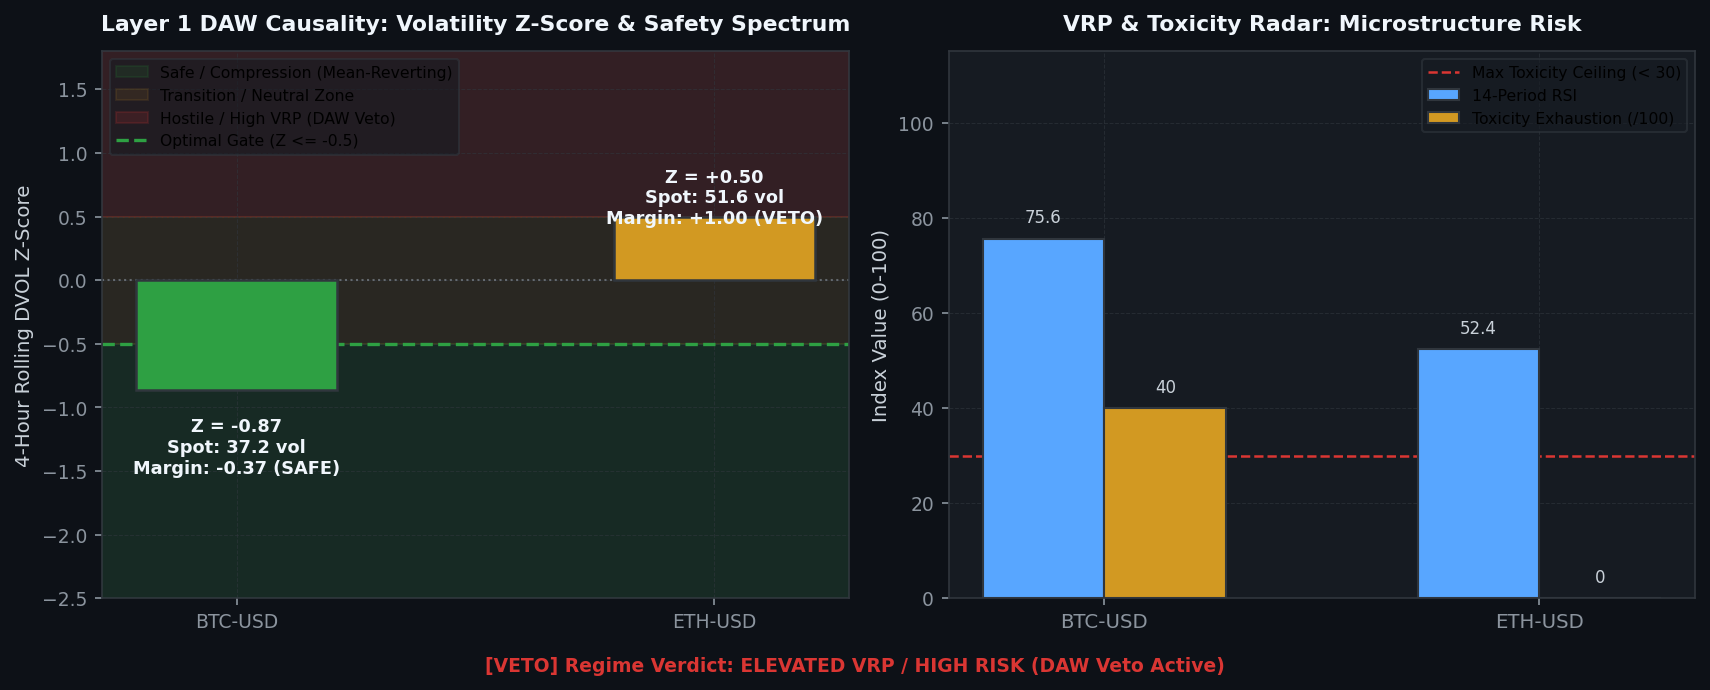
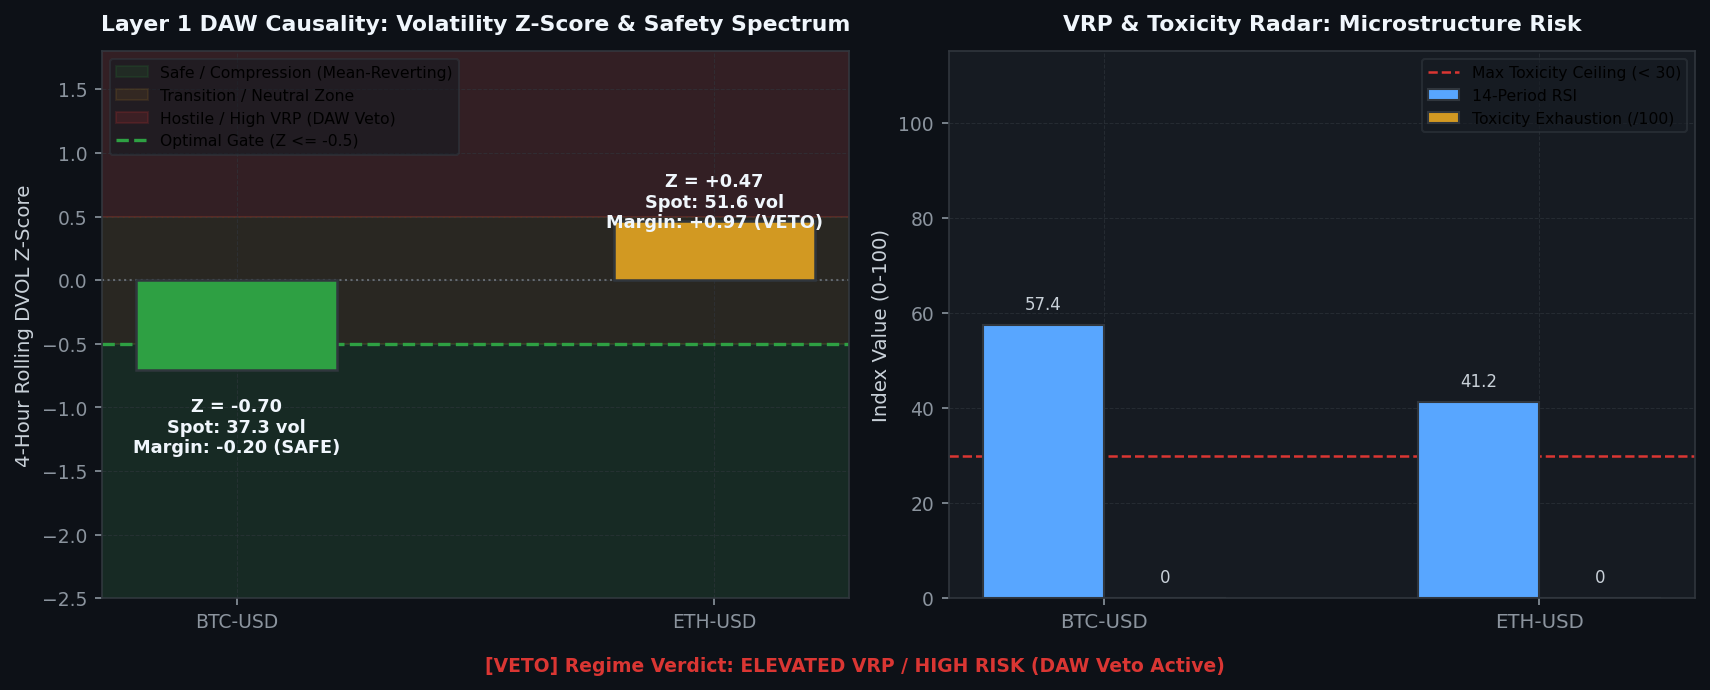
[coinbase] Hourly Status & Visual Intelligence Update: 2026-09-02 04:37:32

diff --git a/coinbase/data/hourly_status_report.md b/coinbase/data/hourly_status_report.md
@@ -3,7 +3,7 @@ layout: default
 ---
 
 # 🛡 Unified Trading System Hourly Status & Visual Intelligence
-> **Report Generated**: `2026-09-02 04:18:18 AM PDT (2026-09-02 11:18:18 UTC)`  
+> **Report Generated**: `2026-09-02 04:37:13 AM PDT (2026-09-02 11:37:13 UTC)`  
 > **System Health**: **🟡 DEGRADED / RESTRICTED** | **Win Rate**: `0.0%` | **Completed Trades**: `0`
 
 
@@ -15,13 +15,13 @@ Real-time Deribit implied volatility (DVOL) proxy tracking against mathematicall
 
 | Symbol | Proxy Oracle | Live Z-Score | Optimal Limit (YSP) | Safety Margin | Live VRP | Optimal VRP (YSP) | DAW Safety Verdict |
 | :--- | :--- | :--- | :--- | :--- | :--- | :--- | :--- |
-| `AVAX-USD` | DVOL_BTC | **-0.91** | **-0.50** | **-0.41** | **+8.66** | -1.0 | 🔴 DAW VETOED |
-| `ETH-USD` | DVOL_ETH | **+0.50** | **-0.50** | **+1.00** | **+23.05** | -1.0 | 🔴 DAW VETOED |
-| `ADA-USD` | DVOL_BTC | **-0.91** | **-0.50** | **-0.41** | **+8.58** | -1.0 | 🔴 DAW VETOED |
-| `DOGE-USD` | DVOL_BTC | **-0.91** | **-0.50** | **-0.41** | **+8.66** | -1.0 | 🔴 DAW VETOED |
-| `BTC-USD` | DVOL_BTC | **-0.91** | **-0.50** | **-0.41** | **+8.65** | -1.0 | 🔴 DAW VETOED |
-| `LINK-USD` | DVOL_BTC | **-0.91** | **-0.50** | **-0.41** | **+8.53** | -1.0 | 🔴 DAW VETOED |
-| `SOL-USD` | DVOL_BTC | **-0.91** | **-0.50** | **-0.41** | **+8.65** | -1.0 | 🔴 DAW VETOED |
+| `AVAX-USD` | DVOL_BTC | **-0.72** | **-0.50** | **-0.22** | **+8.72** | -1.0 | 🔴 DAW VETOED |
+| `ETH-USD` | DVOL_ETH | **+0.47** | **-0.50** | **+0.97** | **+23.03** | -1.0 | 🔴 DAW VETOED |
+| `ADA-USD` | DVOL_BTC | **-0.72** | **-0.50** | **-0.22** | **+8.73** | -1.0 | 🔴 DAW VETOED |
+| `DOGE-USD` | DVOL_BTC | **-0.72** | **-0.50** | **-0.22** | **+8.73** | -1.0 | 🔴 DAW VETOED |
+| `BTC-USD` | DVOL_BTC | **-0.72** | **-0.50** | **-0.22** | **+8.71** | -1.0 | 🔴 DAW VETOED |
+| `LINK-USD` | DVOL_BTC | **-0.72** | **-0.50** | **-0.22** | **+8.73** | -1.0 | 🔴 DAW VETOED |
+| `SOL-USD` | DVOL_BTC | **-0.72** | **-0.50** | **-0.22** | **+8.71** | -1.0 | 🔴 DAW VETOED |
 
 
 
@@ -37,16 +37,16 @@ We hereby certify that the mission-critical algorithmic data assets uploaded by 
 
 | Status | Data Asset | Freshness / State | Details / Timestamp |
 | :---: | :--- | :--- | :--- |
-| ✅ | **Go-List JSON** | Fresh (39.58h old) | 08-31 12:43 |
-| ✅ | **TimesFM Forecasts** | Fresh (4.27h old) | 09-02 00:01 |
-| ✅ | **Holding Times config** | Fresh (39.58h old) | 08-31 12:43 |
-| ✅ | **BTC DVOL Cache** | Fresh (0.00h old) | 09-02 04:18 |
-| ✅ | **ETH DVOL Cache** | Fresh (0.00h old) | 09-02 04:18 |
-| ✅ | **Live Trading Telemetry** | Fresh (0.00h old) | 09-02 04:18 |
+| ✅ | **Go-List JSON** | Fresh (39.89h old) | 08-31 12:43 |
+| ✅ | **TimesFM Forecasts** | Fresh (4.59h old) | 09-02 00:01 |
+| ✅ | **Holding Times config** | Fresh (39.90h old) | 08-31 12:43 |
+| ✅ | **BTC DVOL Cache** | Fresh (0.00h old) | 09-02 04:37 |
+| ✅ | **ETH DVOL Cache** | Fresh (0.00h old) | 09-02 04:37 |
+| ✅ | **Live Trading Telemetry** | Fresh (0.00h old) | 09-02 04:37 |
 
 <br>
 
-> **Utilization Certification**: ✅ **CERTIFIED.** The Guardian Watchdog is ONLINE and EC2 traders are actively querying the freshest MLOps data artifacts (Found 1770 recent read events).
+> **Utilization Certification**: ✅ **CERTIFIED.** The Guardian Watchdog is ONLINE and EC2 traders are actively querying the freshest MLOps data artifacts (Found 1861 recent read events).
 
 
 ---
@@ -55,7 +55,7 @@ Layer-by-layer tick evaluation waterfall and asset-specific performance tracking
 
 | Funnel Filter Layer | Total Rejections | % of Rejections |
 | :--- | :--- | :--- |
-| Tier 1: Macro Volatility Tensor Gate (Omega_macro) | `75,712` | **100.0%** |
+| Tier 1: Macro Volatility Tensor Gate (Omega_macro) | `76,008` | **100.0%** |
 | Tier 2: Unified Transport & Directional Engine | `0` | **0.0%** |
 | Tier 3: Continuous Hawkes-SFGK Pricer (HAS-Pricer) | `0` | **0.0%** |
 | System: Asset Cooldown Active | `0` | **0.0%** |
@@ -72,7 +72,7 @@ Layer-by-layer tick evaluation waterfall and asset-specific performance tracking
 | `ADA-USD` | 5 | 60.0% | 0 | 🟢 OK |
 | `DOGE-USD` | 79 | 68.4% | 0 | 🟢 OK |
 | `ETH-USD` | 35 | 57.1% | 1 | 🟢 OK |
-| `LINK-USD` | 83 | 68.7% | 0 | 🟢 OK |
+| `LINK-USD` | 84 | 69.0% | 0 | 🟢 OK |
 | `AVAX-USD` | 70 | 68.6% | 1 | 🟢 OK |
 | `SOL-USD` | 27 | 77.8% | 1 | 🟢 OK |
 
@@ -82,16 +82,16 @@ Operational telemetry of the high-velocity stablecoin market-making and VIP fee 
 
 | Metric | Live State | Details / Configuration |
 | :--- | :--- | :--- |
-| **Daemon Engine** | 🟢 RUNNING | PID `639421` on Live EC2 (CPU: `0.8%`, RAM: `0.2%`) |
+| **Daemon Engine** | 🟢 RUNNING | PID `639421` on Live EC2 (CPU: `0.9%`, RAM: `0.2%`) |
 | **Target Peg Pair** | `USDT-USD` | Dynamic Top-of-Book Post-Only Maker liquidity |
 | **Tranche Order Sizing** | `$5,000.00 USD` | Multi-block continuous capital rotation |
 | **HFT Reserve Floor** | `$15,000.00 USD` | Unencumbered liquid USD strictly reserved for 0ms volatile strikes |
 | **Priority Interrupt Mode** | 🟢 ACTIVE FARMING (NON_UU_EMERGENT=False) | Instantly cancels U/U buys when volatile trade enters |
-| **Active BUY Tranches** | **5 Orders** (`$24,986.55 USD`) | Resting Limit Bids pegged to Best Bid |
-| **Active SELL Tranches** | **1 Orders** (`$14,577.52 USDT`) | Resting Limit Asks pegged to Best Ask |
-| **Total Deployed U/U Capital** | **`$39,564.07 USD`** | Active bidirectional turnover liquidity pool |
-| **Rolling 30-Day Volume** | **`$2,233,189.06 USD`** | **VIP 2** (Maker: **0.05%** / 5 bps, Taker: **0.10%**) |
-| **Next Tier Milestone (VIP 3)** | **44.7% Complete** | `$2,766,810.94 USD` to reach $5,000,000.00 threshold |
+| **Active BUY Tranches** | **2 Orders** (`$9,994.20 USD`) | Resting Limit Bids pegged to Best Bid |
+| **Active SELL Tranches** | **6 Orders** (`$39,563.77 USDT`) | Resting Limit Asks pegged to Best Ask |
+| **Total Deployed U/U Capital** | **`$49,557.97 USD`** | Active bidirectional turnover liquidity pool |
+| **Rolling 30-Day Volume** | **`$2,235,276.26 USD`** | **VIP 2** (Maker: **0.05%** / 5 bps, Taker: **0.10%**) |
+| **Next Tier Milestone (VIP 3)** | **44.7% Complete** | `$2,764,723.74 USD` to reach $5,000,000.00 threshold |
 
 
 ### Active U/U Maker Tranches on the Book
@@ -99,11 +99,13 @@ Operational telemetry of the high-velocity stablecoin market-making and VIP fee 
 | Pair | Side | Limit Price | Tranche Size | Est. Value | Order ID |
 | :--- | :--- | :--- | :--- | :--- | :--- |
 | `USDT-USD` | 🟢 **BUY** | 0.99942 | 5,000.0 | `$4,997.10` | `6452af85-31df-44f6-b0bd-57ecd1372418` |
-| `USDT-USD` | 🟢 **BUY** | 0.99946 | 5,000.0 | `$4,997.30` | `23ac32e5-2b19-4e42-9740-ef9893c1c592` |
-| `USDT-USD` | 🟢 **BUY** | 0.99947 | 5,000.0 | `$4,997.35` | `d6bd7627-cc4f-4c5c-a680-eebb3542be09` |
-| `USDT-USD` | 🟢 **BUY** | 0.99948 | 5,000.0 | `$4,997.40` | `560cd9e5-0695-483c-bdfd-bcab30567cab` |
-| `USDT-USD` | 🟢 **BUY** | 0.99948 | 5,000.0 | `$4,997.40` | `220f53f5-de23-4e83-8f67-44fabbce15a7` |
+| `USDT-USD` | 🟢 **BUY** | 0.99942 | 5,000.0 | `$4,997.10` | `1ce6b506-4b4b-449d-bb91-3e61136e10ac` |
 | `USDT-USD` | 🔴 **SELL** | 0.99955 | 14,584.1 | `$14,577.52` | `efd8514f-211c-4472-8714-3f95201b75fd` |
+| `USDT-USD` | 🔴 **SELL** | 0.99945 | 5,000.0 | `$4,997.25` | `a9171bcd-1218-4c52-b1b2-623d51288823` |
+| `USDT-USD` | 🔴 **SELL** | 0.99945 | 5,000.0 | `$4,997.25` | `a61fb7b1-6468-4b79-b0cd-1951dfaffedb` |
+| `USDT-USD` | 🔴 **SELL** | 0.99945 | 5,000.0 | `$4,997.25` | `70f07404-9a71-4e10-8659-74ba14b01103` |
+| `USDT-USD` | 🔴 **SELL** | 0.99945 | 5,000.0 | `$4,997.25` | `65b42dad-c6a9-4ccc-8aca-8bcbf9281594` |
+| `USDT-USD` | 🔴 **SELL** | 0.99945 | 5,000.0 | `$4,997.25` | `d55ca6c4-caaa-45ba-bb34-20501197bb55` |
 
 
 ---
@@ -112,7 +114,7 @@ Live balance sheet and open maker liquidity positions from Coinbase CDP.
 
 | Currency | Available | Hold | Total Balance |
 | :--- | :--- | :--- | :--- |
-| `USDT` | 4867.3800 | 14584.0800 | **19451.4600** |
+| `USDT` | 7549.6400 | 34584.0800 | **42133.7200** |
 | `CRV` | 0.0500 | 0.0000 | **0.0500** |
 | `DOGE` | 0.1000 | 0.0000 | **0.1000** |
 | `FIL` | 0.0050 | 0.0000 | **0.0050** |
@@ -133,16 +135,13 @@ Live balance sheet and open maker liquidity positions from Coinbase CDP.
 | Product | Side | Limit Price | Base Size | Order ID |
 | :--- | :--- | :--- | :--- | :--- |
 | `ACH-USD` | SELL | 0.00551 | 8,234.10 | `a0d2e243-42b4-4df5-bd23-118f45998df8` |
-| `USDT-USD` | BUY | 0.99948 | 5,000.00 | `f57e2776-20e1-4dee-9efe-575112e65d6e` |
 | `USDT-USD` | SELL | 0.99955 | 14,584.08 | `efd8514f-211c-4472-8714-3f95201b75fd` |
 | `USDT-USD` | BUY | 0.99942 | 5,000.00 | `6452af85-31df-44f6-b0bd-57ecd1372418` |
-| `USDT-USD` | BUY | 0.99946 | 5,000.00 | `23ac32e5-2b19-4e42-9740-ef9893c1c592` |
-| `USDT-USD` | BUY | 0.99947 | 5,000.00 | `d6bd7627-cc4f-4c5c-a680-eebb3542be09` |
-| `LINK-USD` | SELL | 10.99000 | 95.08 | `4a7b9663-a349-45c5-8133-bff55e35e166` |
-| `ADA-USD` | BUY | 0.19325 | 3,536.44 | `1a7ceb1b-02e6-41ac-b028-a7bcfa00de35` |
-| `USDT-USD` | BUY | 0.99948 | 5,000.00 | `48aa0aba-5398-4821-91c3-59a12283b296` |
-| `USDT-USD` | BUY | 0.99948 | 5,000.00 | `31ffb843-5870-433f-8708-6a7cfeecd404` |
-| `USDT-USD` | BUY | 0.99948 | 5,000.00 | `444950f9-13ff-419e-8c84-0434db8942ea` |
+| `LINK-USD` | BUY | 11.00000 | 78.52 | `5047d5e2-3392-40c0-8f28-0ca938b18423` |
+| `USDT-USD` | SELL | 0.99945 | 5,000.00 | `a9171bcd-1218-4c52-b1b2-623d51288823` |
+| `USDT-USD` | SELL | 0.99945 | 5,000.00 | `ba63349d-f3a1-4192-a88c-1bb71b194891` |
+| `USDT-USD` | SELL | 0.99945 | 5,000.00 | `1dc4e73f-4e8c-4b12-89aa-cde5363b0aa3` |
+| `USDT-USD` | SELL | 0.99945 | 5,000.00 | `70905512-362f-4890-bbbc-943b5f3a1cff` |
 
 
 
@@ -150,14 +149,14 @@ Live balance sheet and open maker liquidity positions from Coinbase CDP.
 ## 6. 🤖 Foundation Model MLOps & Pipeline Orchestration
 Weekly Algorithmic Mega Cap selection, Zero-shot multi-step forward return forecasts, and VSTEF parameter grid search status.
 
-- **TimesFM Forecast DB**: 🟢 Updated 4.3h ago (2026-09-02 12:01 AM PDT)
+- **TimesFM Forecast DB**: 🟢 Updated 4.6h ago (2026-09-02 12:01 AM PDT)
 - **Last Weekly VSTEF Optimization**: `2026-08-31 12:42:56 PM PDT`
-- **Next Scheduled VSTEF Run**: `2026-09-06 07:00:00 PM PDT (Monday 02:00 UTC)` (Countdown: **110.7h (4d 14h 41m)**)
+- **Next Scheduled VSTEF Run**: `2026-09-06 07:00:00 PM PDT (Monday 02:00 UTC)` (Countdown: **110.4h (4d 14h 22m)**)
 - **Promoted Parameter Gates**: $Z_{DVOL} \le -0.5$ | Holding Horizon $= 12\text{h}$
 
 ### Algorithmic Mega Cap Selection
 - **Last Run (Confirmation)**: `2026-08-31 12:43:56 PM PDT`
-- **Next Scheduled Run**: `2026-09-06 06:00:00 PM PDT (Monday 01:00 UTC)` (Countdown: **109.7h (4d 13h 41m)**)
+- **Next Scheduled Run**: `2026-09-06 06:00:00 PM PDT (Monday 01:00 UTC)` (Countdown: **109.4h (4d 13h 22m)**)
 - **Selected Mega Cap Universe**: `BTC, ETH, DOGE, SUI, XRP, SOL, ZEC`
 
 
@@ -171,20 +170,20 @@ Visualizing the impact of the VSTEF (Volatility-Synchronized Stop-Tightening Exe
 ## 7. 🖥 Multi-Node Infrastructure & Watchdog Matrix
 ```text
 ================================================================================
-   🛡  SFGK FUNNEL GUARDIAN WATCHDOG (HFT ONLY) |  11:18:19 AM
-   CPU:  15.5%  |  MEM:   7.3% (14.3GB / 15.4GB Free)
+   🛡  SFGK FUNNEL GUARDIAN WATCHDOG (HFT ONLY) |  11:37:10 AM
+   CPU:  18.6%  |  MEM:   6.7% (14.4GB / 15.4GB Free)
 ================================================================================
 SERVICE              | PID      | STATUS          | RESTARTS | INFO
 --------------------------------------------------------------------------------
 L3 Consumer          | 639349   | RUNNING         | -        | Continuous Websocket Feed
 MAO Daemon           | 639419   | RUNNING         | -        | Oracle Yield Analysis
 U/U Farmer           | 639421   | RUNNING         | -        | Volume Farmer
-Trader AVAX-USD      | 725350   | COOL-DOWN       | 212      | Next run in 14.4s
-Trader ETH-USD       | 725382   | RUNNING         | 53       | Evaluating Funnel/Polling Order
-Trader ADA-USD       | 723630   | RUNNING         | 185      | Evaluating Funnel/Polling Order
-Trader DOGE-USD      | 725080   | COOL-DOWN       | 182      | Next run in 3.8s
-Trader BTC-USD       | 725383   | RUNNING         | 218      | Evaluating Funnel/Polling Order
-Trader LINK-USD      | 722976   | RUNNING         | 45       | Evaluating Funnel/Polling Order
+Trader AVAX-USD      | 744729   | COOL-DOWN       | 264      | Next run in 14.4s
+Trader ETH-USD       | 744848   | RUNNING         | 105      | Evaluating Funnel/Polling Order
+Trader ADA-USD       | 744604   | COOL-DOWN       | 235      | Next run in 3.7s
+Trader DOGE-USD      | 744695   | COOL-DOWN       | 217      | Next run in 9.0s
+Trader BTC-USD       | 744849   | RUNNING         | 270      | Evaluating Funnel/Polling Order
+Trader LINK-USD      | 744337   | RUNNING         | 52       | Evaluating Funnel/Polling Order
 ```
 
 ---
@@ -203,10 +202,6 @@ Trader LINK-USD      | 722976   | RUNNING         | 45       | Evaluating Funnel
 <summary><b>Click to expand raw incident logs</b></summary>
 
 ```text
-logs/watchdog_Trader_SOL_USD.log:2026-09-02 10:42:49 [WARNING] [async_sfgk_trader.py:_execute_api_call:299] [SOL-USD] Coinbase API Call Exception (Attempt 1/5). Func: get_accounts | Sleeping 1.39s... | Error: 429 Client Error: Too Many Requests 
-logs/watchdog_Trader_SOL_USD.log:2026-09-02 10:43:11 [WARNING] [async_sfgk_trader.py:_execute_api_call:299] [SOL-USD] Coinbase API Call Exception (Attempt 1/5). Func: get_product | Sleeping 1.28s... | Error: 429 Client Error: Too Many Requests 
-logs/watchdog_Trader_SOL_USD.log:2026-09-02 10:45:00 [WARNING] [async_sfgk_trader.py:_execute_api_call:299] [SOL-USD] Coinbase API Call Exception (Attempt 1/5). Func: get_product | Sleeping 1.22s... | Error: 429 Client Error: Too Many Requests 
-logs/watchdog_Trader_SOL_USD.log:2026-09-02 10:45:22 [WARNING] [async_sfgk_trader.py:_execute_api_call:299] [SOL-USD] Coinbase API Call Exception (Attempt 1/5). Func: get_accounts | Sleeping 1.13s... | Error: 429 Client Error: Too Many Requests 
 logs/watchdog_Trader_SOL_USD.log:2026-09-02 10:45:44 [WARNING] [async_sfgk_trader.py:_execute_api_call:299] [SOL-USD] Coinbase API Call Exception (Attempt 1/5). Func: get_accounts | Sleeping 1.26s... | Error: 429 Client Error: Too Many Requests 
 logs/watchdog_Trader_SOL_USD.log:2026-09-02 10:46:28 [WARNING] [async_sfgk_trader.py:_execute_api_call:299] [SOL-USD] Coinbase API Call Exception (Attempt 1/5). Func: get_accounts | Sleeping 1.47s... | Error: 429 Client Error: Too Many Requests 
 logs/watchdog_Trader_SOL_USD.log:2026-09-02 10:46:50 [WARNING] [async_sfgk_trader.py:_execute_api_call:299] [SOL-USD] Coinbase API Call Exception (Attempt 1/5). Func: get_accounts | Sleeping 1.14s... | Error: 429 Client Error: Too Many Requests 
@@ -242,7 +237,11 @@ logs/watchdog_Trader_SOL_USD.log:2026-09-02 11:06:25 [WARNING] [async_sfgk_trade
 logs/watchdog_Trader_SOL_USD.log:2026-09-02 11:07:51 [WARNING] [async_sfgk_trader.py:_execute_api_call:299] [SOL-USD] Coinbase API Call Exception (Attempt 1/5). Func: get_product | Sleeping 1.47s... | Error: 429 Client Error: Too Many Requests 
 logs/watchdog_Trader_SOL_USD.log:2026-09-02 11:08:34 [WARNING] [async_sfgk_trader.py:_execute_api_call:299] [SOL-USD] Coinbase API Call Exception (Attempt 1/5). Func: get_product | Sleeping 1.46s... | Error: 429 Client Error: Too Many Requests 
 logs/watchdog_Trader_SOL_USD.log:2026-09-02 11:09:17 [WARNING] [async_sfgk_trader.py:_execute_api_call:299] [SOL-USD] Coinbase API Call Exception (Attempt 1/5). Func: get_product | Sleeping 1.36s... | Error: 429 Client Error: Too Many Requests 
-logs/watchdog_Trader_SOL_USD.log:2026-09-02 11:14:43 [WARNING] [async_sfgk_trader.py:_execute_api_call:299] [SOL-USD] Coinbase API Call Exception (Attempt 1/5). Func: get_product | Sleeping 1.14s... | Error: 429 Client Error: Too Many Requests
+logs/watchdog_Trader_SOL_USD.log:2026-09-02 11:14:43 [WARNING] [async_sfgk_trader.py:_execute_api_call:299] [SOL-USD] Coinbase API Call Exception (Attempt 1/5). Func: get_product | Sleeping 1.14s... | Error: 429 Client Error: Too Many Requests 
+logs/watchdog_Trader_SOL_USD.log:2026-09-02 11:24:51 [WARNING] [async_sfgk_trader.py:_execute_api_call:299] [SOL-USD] Coinbase API Call Exception (Attempt 1/5). Func: get_accounts | Sleeping 1.11s... | Error: 429 Client Error: Too Many Requests 
+logs/watchdog_Trader_SOL_USD.log:2026-09-02 11:30:39 [WARNING] [async_sfgk_trader.py:_execute_api_call:299] [SOL-USD] Coinbase API Call Exception (Attempt 1/5). Func: get_product | Sleeping 1.14s... | Error: 429 Client Error: Too Many Requests 
+logs/watchdog_Trader_SOL_USD.log:2026-09-02 11:32:28 [WARNING] [async_sfgk_trader.py:_execute_api_call:299] [SOL-USD] Coinbase API Call Exception (Attempt 1/5). Func: get_product | Sleeping 1.12s... | Error: 429 Client Error: Too Many Requests 
+logs/watchdog_Trader_SOL_USD.log:2026-09-02 11:37:11 [WARNING] [async_sfgk_trader.py:_execute_api_call:299] [SOL-USD] Coinbase API Call Exception (Attempt 1/5). Func: get_product | Sleeping 1.34s... | Error: 429 Client Error: Too Many Requests
 ```
 </details>
 

diff --git a/coinbase/data/visual_intelligence.md b/coinbase/data/visual_intelligence.md
@@ -4,7 +4,7 @@ title: Visual Intelligence Gallery
 ---
 
 # 📈 Visual Intelligence Gallery
-> **Generated:** `2026-09-02 04:18:38`
+> **Generated:** `2026-09-02 04:37:32`
 > **[Return to Main Status Report](./hourly_status_report.md)**
 
 This page visualizes the internal states, market profiles, and decision criteria of the active **3-Tier Fused Decision Engine** across all layers.
